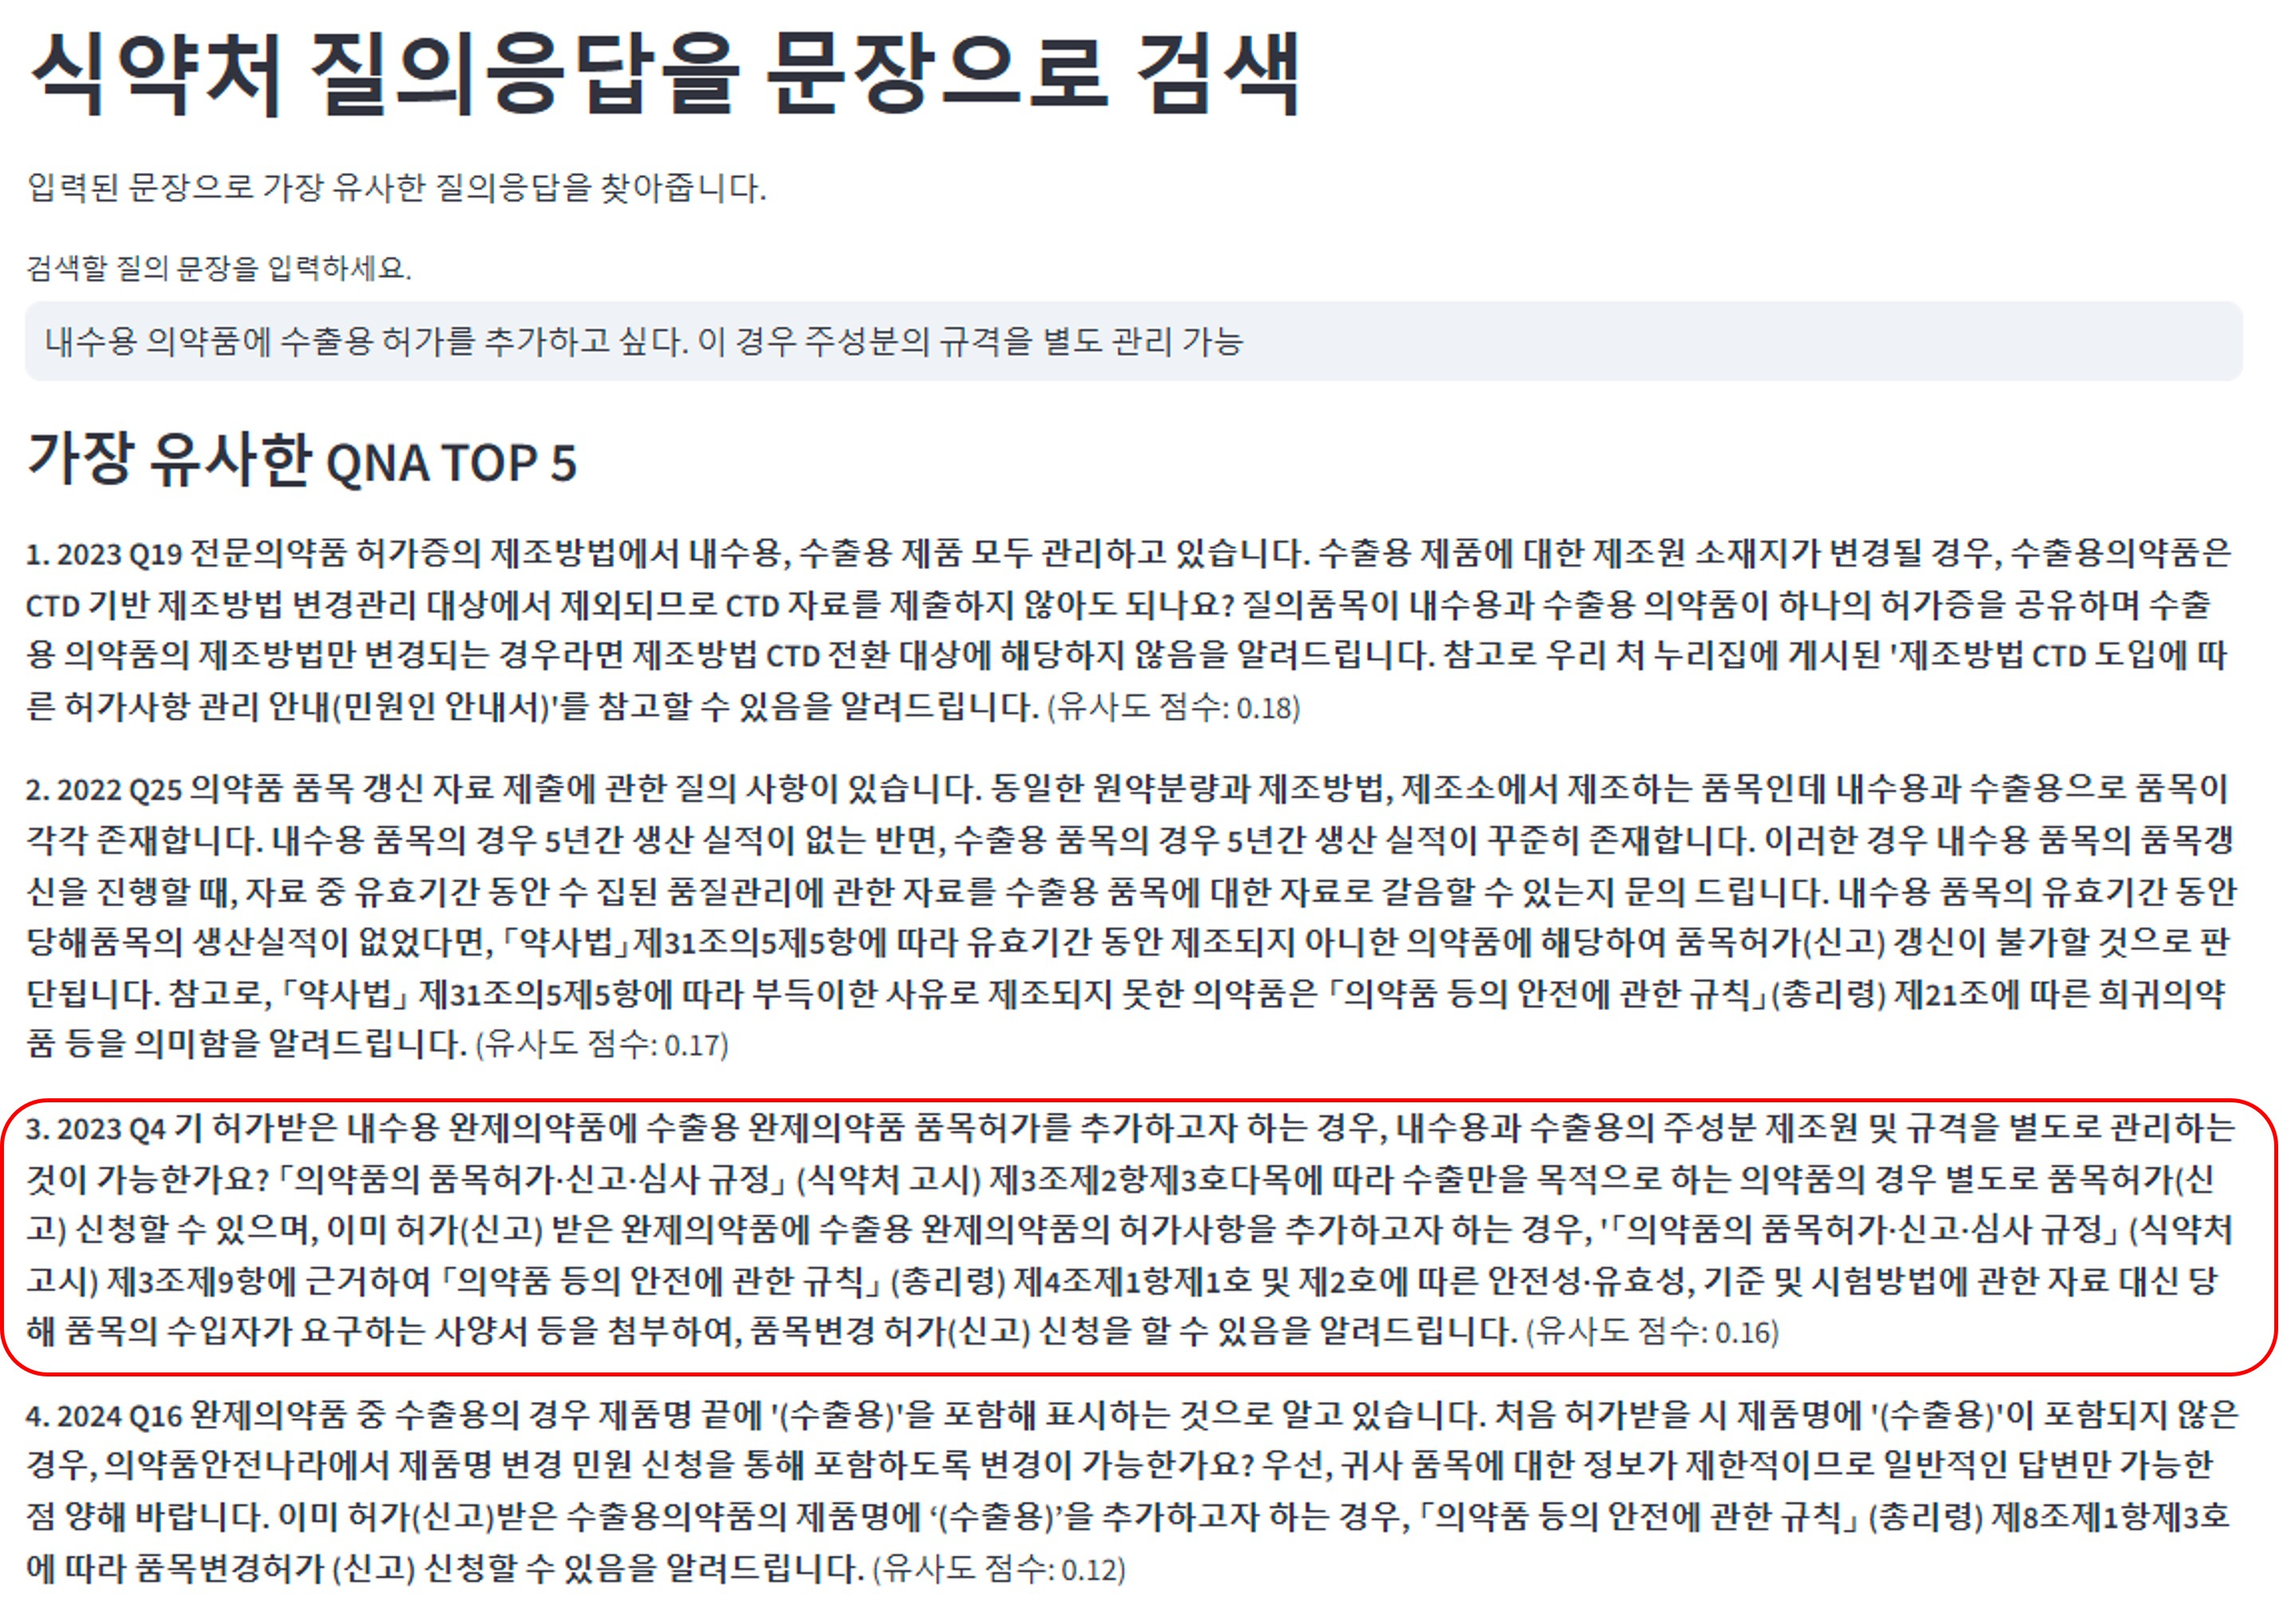
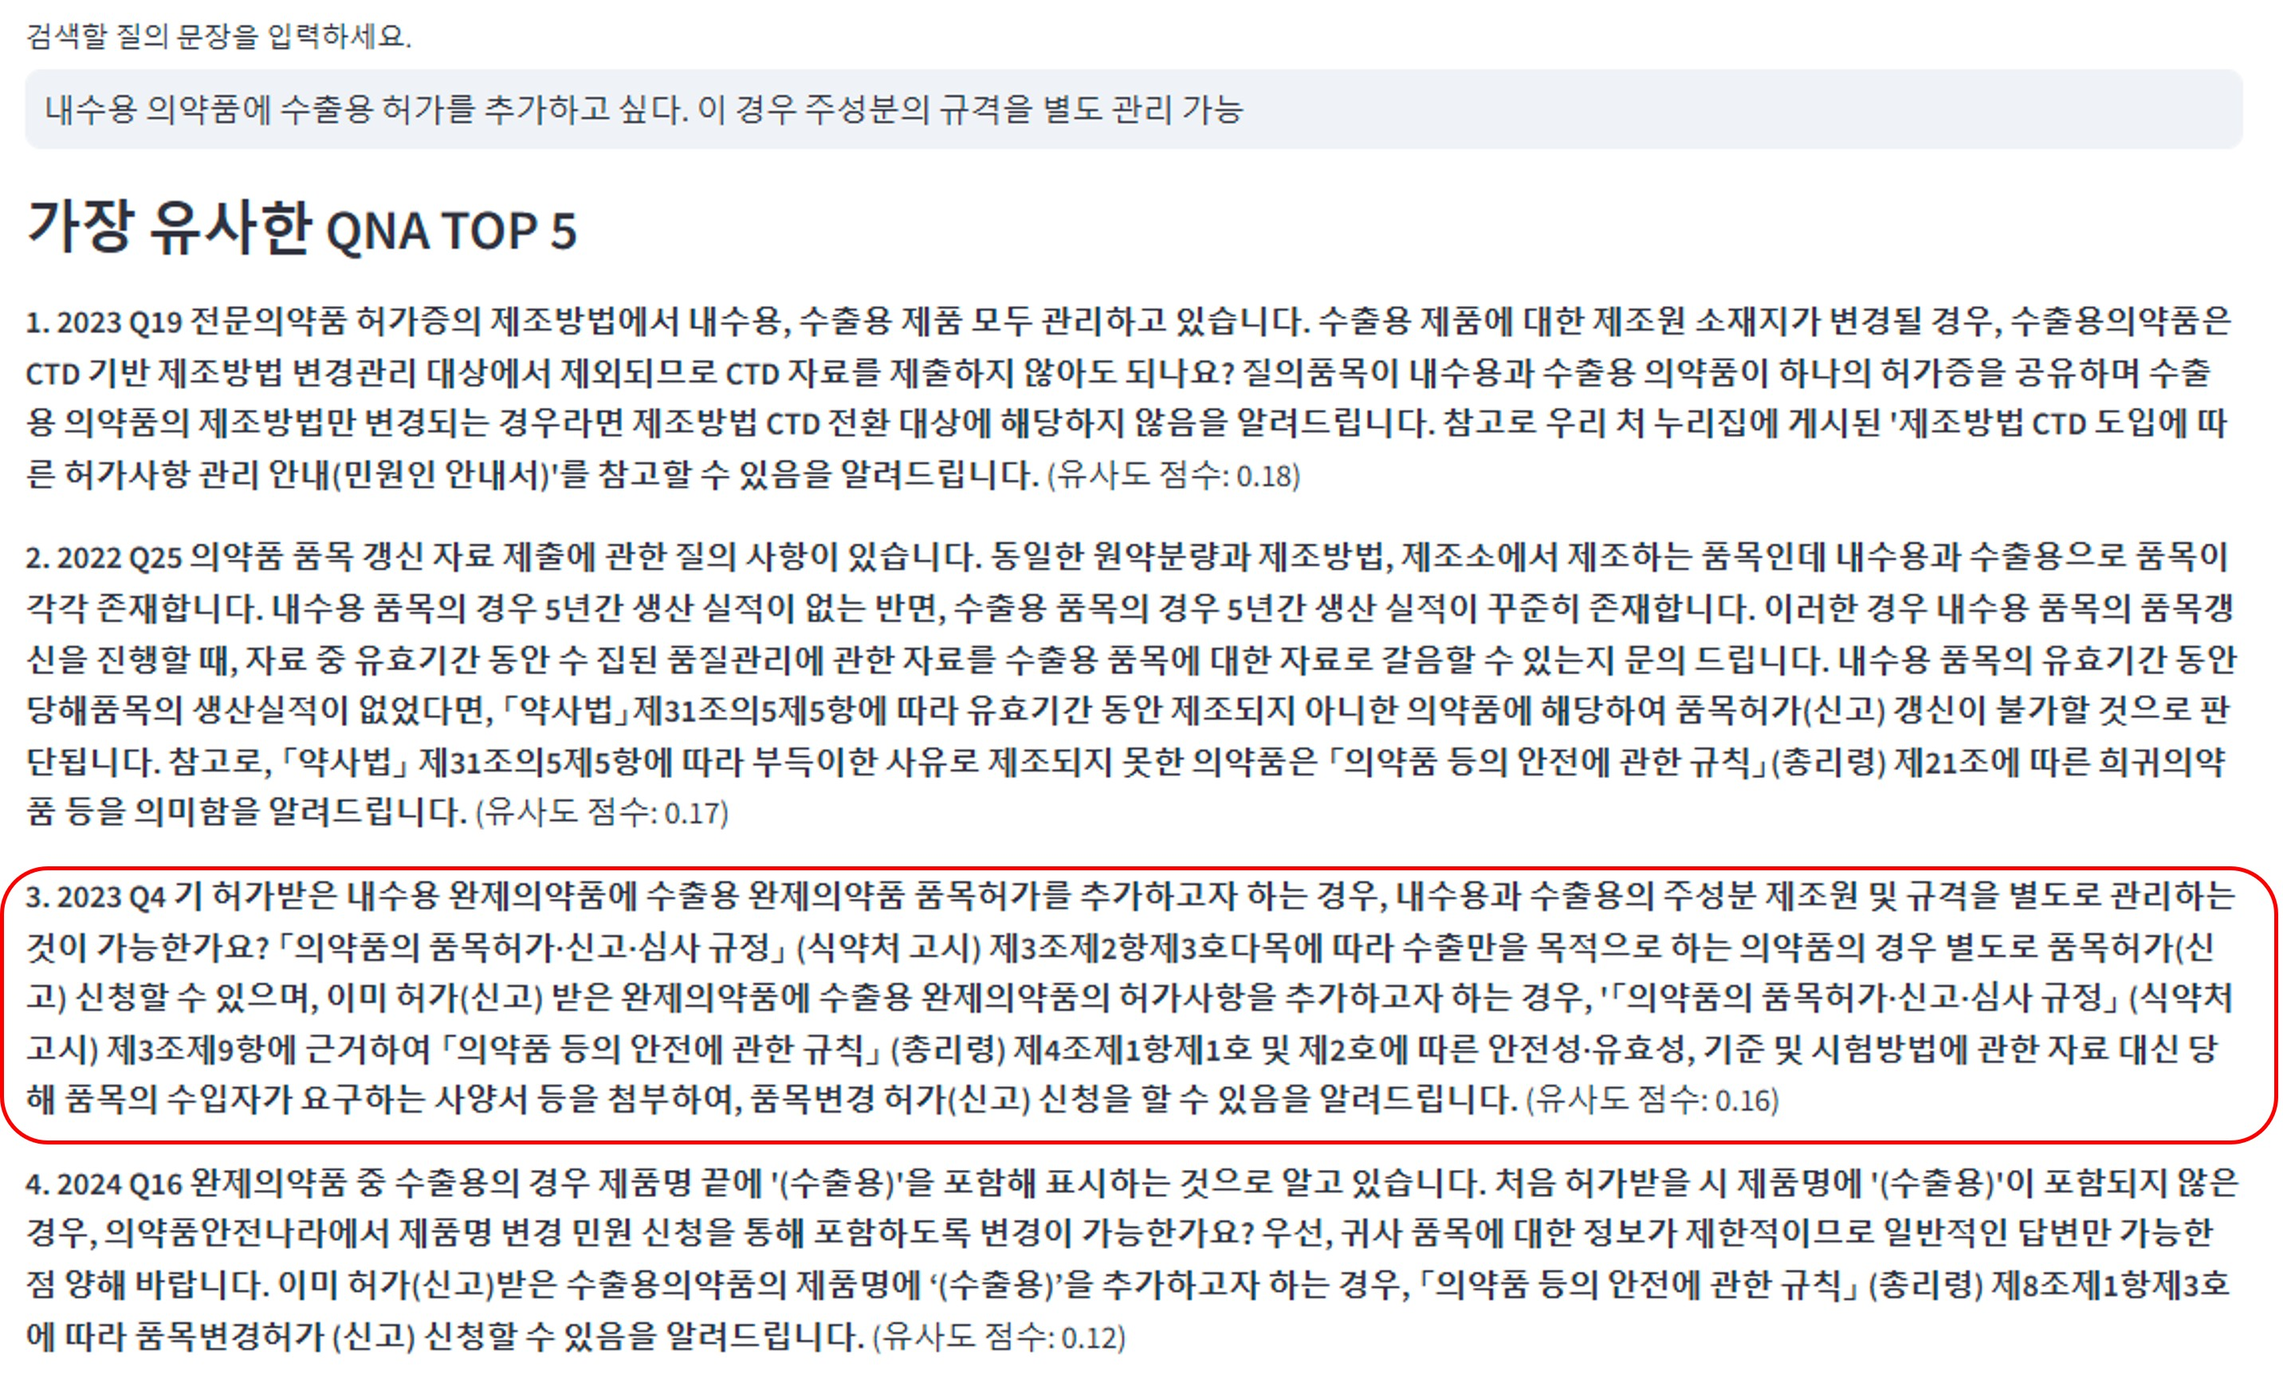
main

diff --git a/20241222MFDSQA.py b/20241222MFDSQA.py
@@ -18,11 +18,11 @@ if not os.path.exists(log_file):
 st.set_page_config(page_title="식약처 질의응답을 문장으로 검색", layout="wide")
 st.title("식약처 질의응답을 문장으로 검색")
 st.text("입력된 문장으로 가장 유사한 질의응답을 찾아줍니다.")
-st.text("아래는 검색 예제입니다.")
-st.image("example.jpg", use_column_width=True)
+st.markdown("아래는 검색 예제입니다.")
+st.image("example.jpg", caption="example", use_column_width=True)
 df = pd.read_csv(data_file)
 
-new_post = st.text_input("검색할 질의 문장을 입력하세요.")
+new_post = st.text_input("# ✅ **:red[검색할 질의 문장을 입력하세요.]**")
 # new_post = ['액제 이화학적동등성 시험 선정']
 
 def save_log(new_post, search_time):
